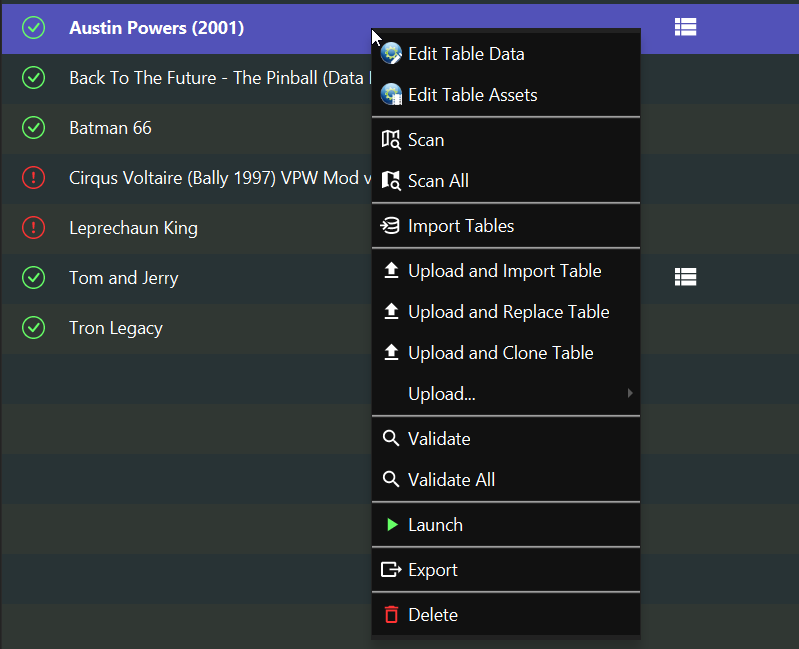
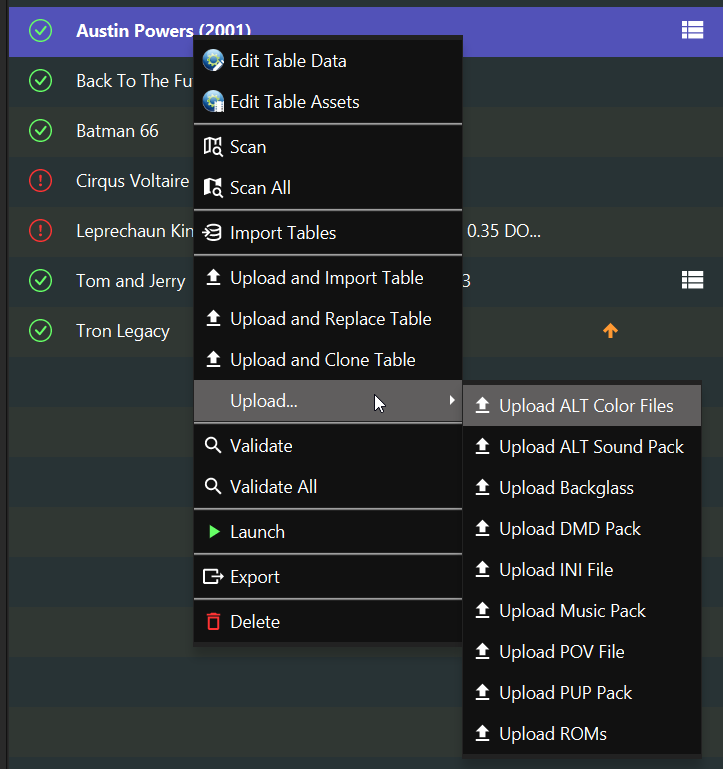
2.16.0 prep

diff --git a/vpin-studio-ui/src/main/java/de/mephisto/vpin/ui/tables/TableOverviewController.java b/vpin-studio-ui/src/main/java/de/mephisto/vpin/ui/tables/TableOverviewController.java
@@ -440,19 +440,23 @@ public class TableOverviewController implements Initializable, StudioFXControlle
 
   @FXML
   private void onTableUpload() {
+    openUploadDialogWithCheck(TableUploadDescriptor.uploadAndImport);
+  }
+
+  private void openUploadDialogWithCheck(TableUploadDescriptor uploadDescriptor) {
     if (client.getPinUPPopperService().isPinUPPopperRunning()) {
       if (Dialogs.openPopperRunningWarning(Studio.stage)) {
-        openUploadDialog();
+        openUploadDialog(uploadDescriptor);
       }
       return;
     }
 
-    openUploadDialog();
+    openUploadDialog(uploadDescriptor);
   }
 
-  private void openUploadDialog() {
+  private void openUploadDialog(TableUploadDescriptor uploadDescriptor) {
     GameRepresentation game = tableView.getSelectionModel().getSelectedItem();
-    Optional<TableUploadResult> uploadResult = TableDialogs.openTableUploadDialog(game, TableUploadDescriptor.uploadAndImport);
+    Optional<TableUploadResult> uploadResult = TableDialogs.openTableUploadDialog(game, uploadDescriptor);
     if (uploadResult.isPresent() && uploadResult.get().getGameId() != -1) {
       Consumer<GameRepresentation> c = gameRepresentation -> {
         TableUploadResult tableUploadResult = uploadResult.get();
@@ -1313,19 +1317,19 @@ public class TableOverviewController implements Initializable, StudioFXControlle
     MenuItem uploadAndImportTableItem = new MenuItem("Upload and Import Table");
     uploadAndImportTableItem.setGraphic(WidgetFactory.createIcon("mdi2u-upload"));
     uploadAndImportTableItem.setDisable(tableView.getSelectionModel().isEmpty());
-    uploadAndImportTableItem.setOnAction(actionEvent -> TableDialogs.openTableUploadDialog(tableView.getSelectionModel().getSelectedItem(), TableUploadDescriptor.uploadAndImport));
+    uploadAndImportTableItem.setOnAction(actionEvent -> openUploadDialogWithCheck(TableUploadDescriptor.uploadAndImport));
     ctxMenu.getItems().add(uploadAndImportTableItem);
 
     MenuItem uploadAndReplaceTableItem = new MenuItem("Upload and Replace Table");
     uploadAndReplaceTableItem.setGraphic(WidgetFactory.createIcon("mdi2u-upload"));
     uploadAndReplaceTableItem.setDisable(tableView.getSelectionModel().isEmpty());
-    uploadAndReplaceTableItem.setOnAction(actionEvent -> TableDialogs.openTableUploadDialog(tableView.getSelectionModel().getSelectedItem(), TableUploadDescriptor.uploadAndReplace));
+    uploadAndReplaceTableItem.setOnAction(actionEvent -> openUploadDialogWithCheck(TableUploadDescriptor.uploadAndReplace));
     ctxMenu.getItems().add(uploadAndReplaceTableItem);
 
     MenuItem uploadAndCloneTableItem = new MenuItem("Upload and Clone Table");
     uploadAndCloneTableItem.setGraphic(WidgetFactory.createIcon("mdi2u-upload"));
     uploadAndCloneTableItem.setDisable(tableView.getSelectionModel().isEmpty() || game == null || game.getGameFileName().contains("\\"));
-    uploadAndCloneTableItem.setOnAction(actionEvent -> TableDialogs.openTableUploadDialog(tableView.getSelectionModel().getSelectedItem(), TableUploadDescriptor.uploadAndClone));
+    uploadAndCloneTableItem.setOnAction(actionEvent -> openUploadDialogWithCheck(TableUploadDescriptor.uploadAndClone));
     ctxMenu.getItems().add(uploadAndCloneTableItem);
 
     Menu uploadMenu = new Menu("Upload...");

diff --git a/vpin-studio-server/src/main/java/de/mephisto/vpin/server/games/GamesResource.java b/vpin-studio-server/src/main/java/de/mephisto/vpin/server/games/GamesResource.java
@@ -301,6 +301,7 @@ public class GamesResource {
           }
           case uploadAndReplace: {
             //the game file has already been deleted at this point
+            returningGameId = gameId;
             TableDetails tableDetails = popperService.getTableDetails(gameId);
             tableDetails.setEmulatorId(gameEmulator.getId()); //update emulator id in case it has changed too
 

diff --git a/RELEASE_NOTES.md b/RELEASE_NOTES.md
@@ -21,7 +21,7 @@
 - Added **vpxtool** from https://github.com/francisdb/vpxtool. This tool is used to import and export VB script from VPX files.
 - **VPX Script ~~Viewer~~ Editor(!)**: Finally, thanks to the **vpxtool** you now can not only view the VB script of a table, but also edit it and save it back to the VPX file. The editor for this **does not offer much**, but it will allow you to do some quick table adjustments.
   
-<img src="https://raw.githubusercontent.com/syd711/vpin-studio/main/documentation/tables/script-viewer.png" width="600" />
+<img src="https://raw.githubusercontent.com/syd711/vpin-studio/main/documentation/tables/script-viewer.png" width="700" />
 
 - **Server Settings**: Added option to restart the VPin Studio Server.
 - **VPin Studio Installer**: Added registry option to auto-start the server. The installation will no longer ask for the auto-start folder but will use the registry instead. For existing users: you can keep the existing auto-start as is.
